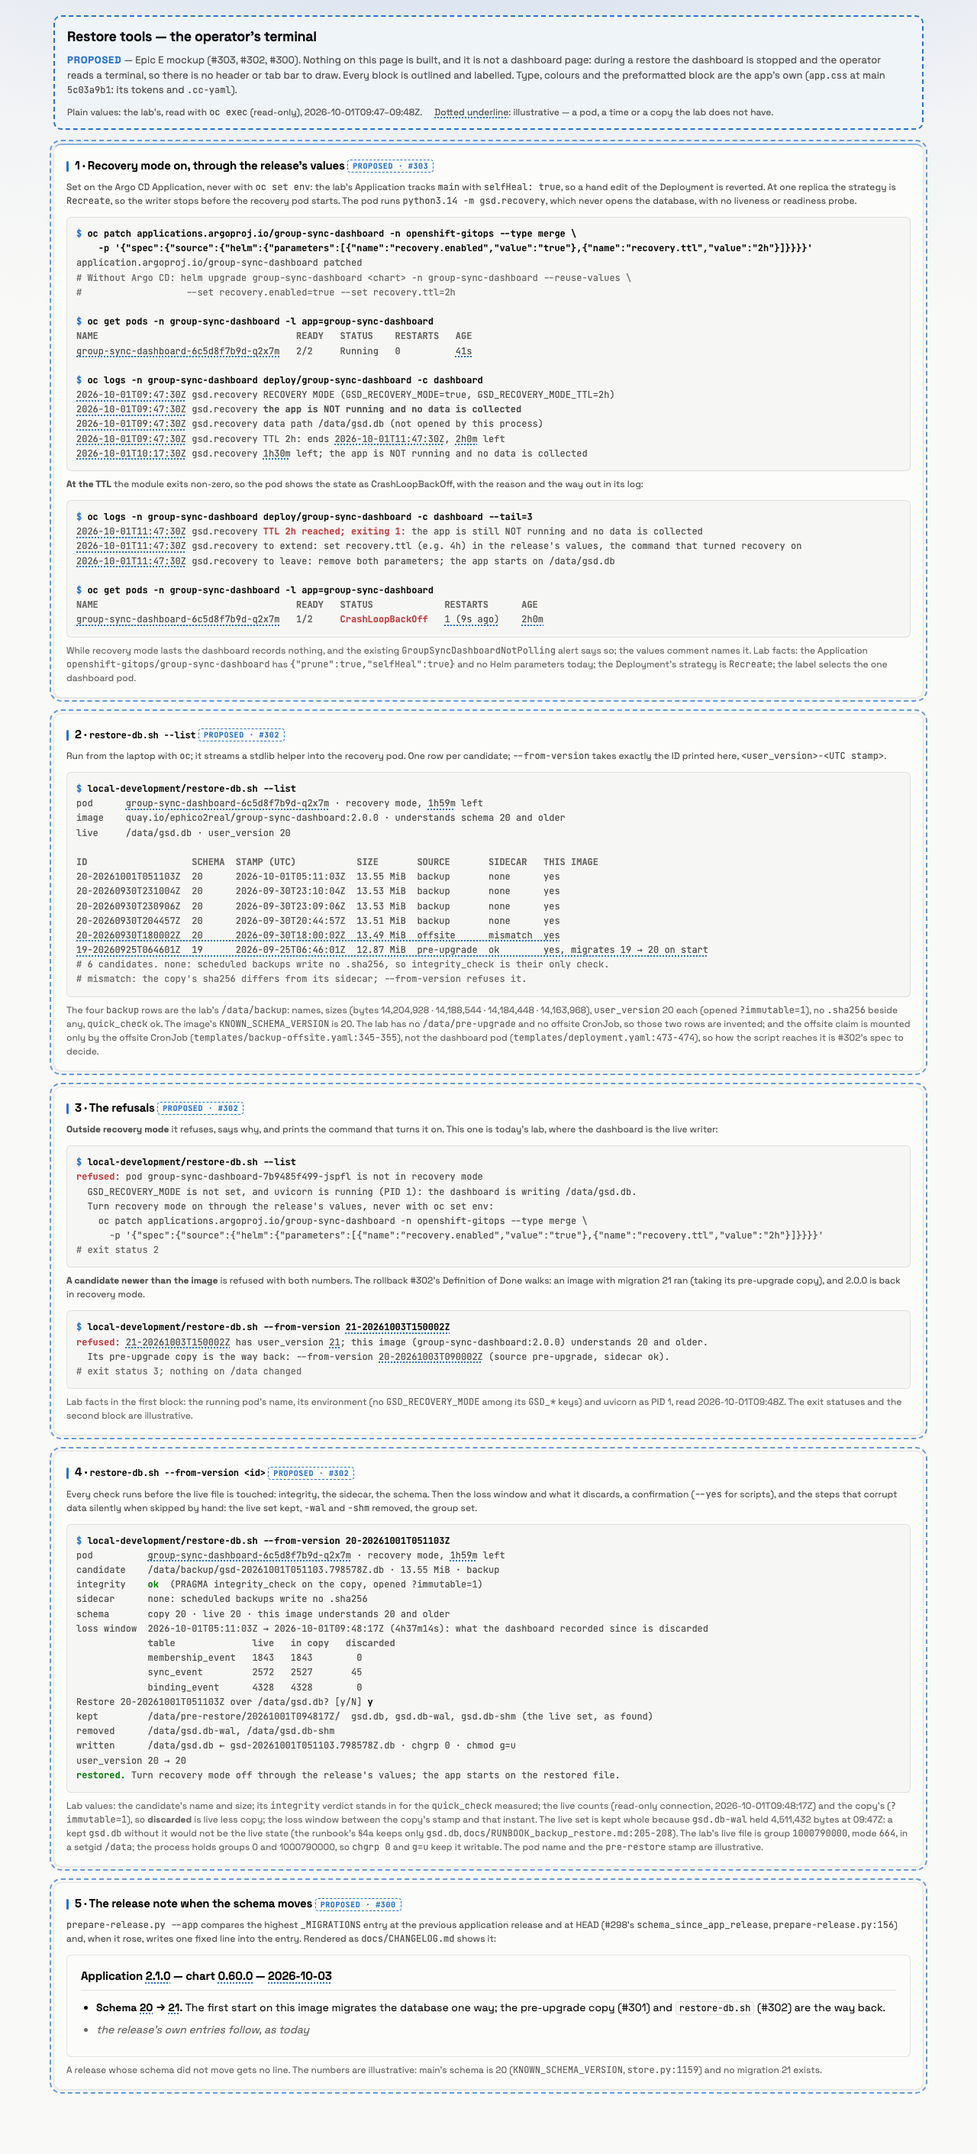
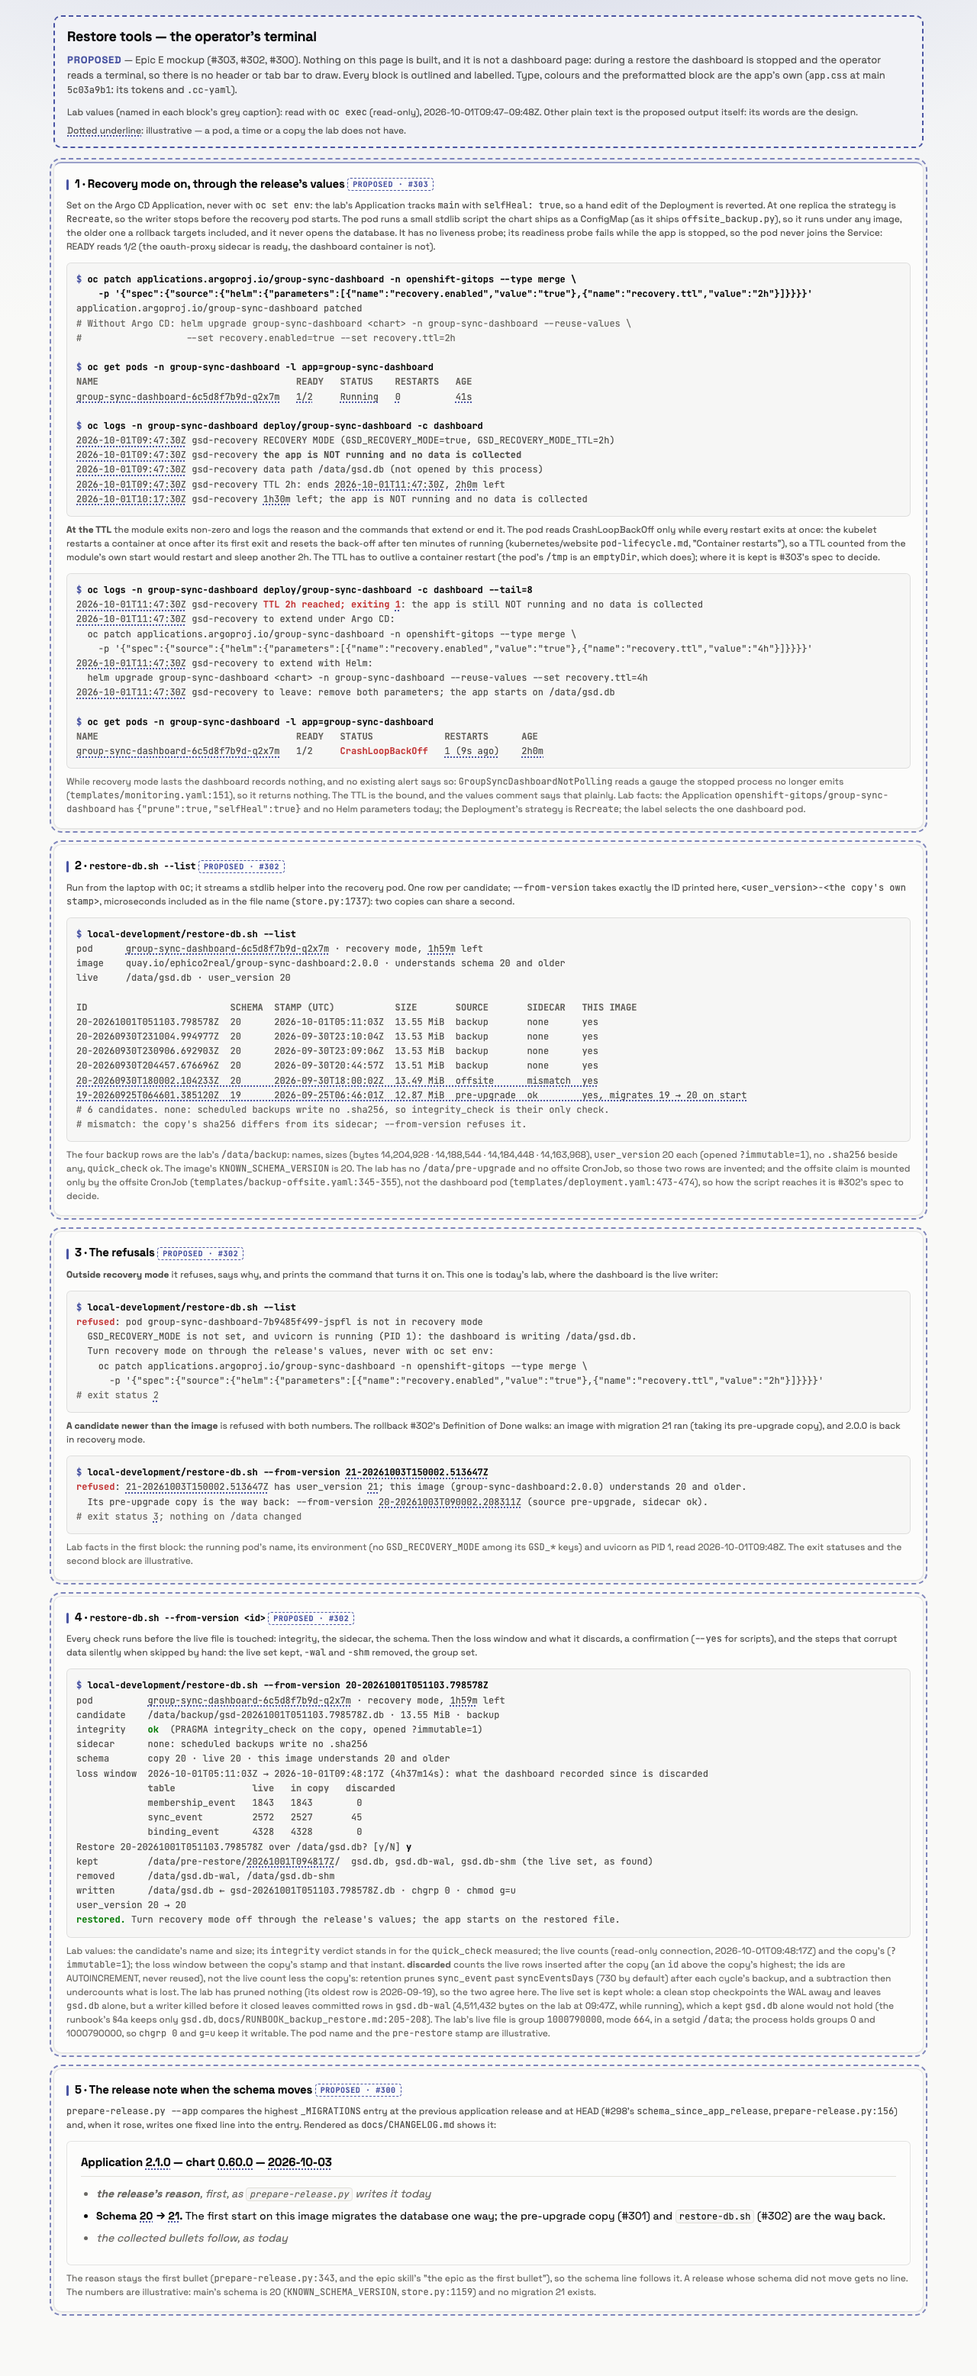
docs(design): the reviews of the Epic G and Epic E mockups — OB3's seven fixes, Codex's two, and #303's corrected recovery pod
- OB3 (in Grok's seat): the Namespaces card is h2 and its counts are drawn as #503 decides; `discarded` counts rows
  inserted after the copy; the TTL log prints the commands that extend it, and the caption says the TTL must survive a
  container restart; the release's reason stays the first bullet; illustrative values dotted; KPI accent for contrast.
- Codex: the legend no longer calls every plain value a lab reading; restore IDs keep the copy's microseconds, as the
  file names do (two copies can share a second).
- #303 as corrected: a chart-shipped script rather than an app module, no liveness probe, a failing readiness probe
  (READY 1/2, never in the Service), and no claim that the NotPolling alert fires.

diff --git a/docs/design/restore-cli-mock.html b/docs/design/restore-cli-mock.html
@@ -1751,7 +1751,7 @@ pre.cc-yaml.term { white-space: pre; overflow-wrap: normal; word-break: normal; 
 }
 </style>
 </head>
-<body>
+<body data-page="kpi">
 <div class="wrap" id="wrap">
   <div class="proposed-banner" role="note">
     <h1>Restore tools — the operator's terminal</h1>
@@ -1760,7 +1760,7 @@ pre.cc-yaml.term { white-space: pre; overflow-wrap: normal; word-break: normal; 
     draw. Every block is outlined and labelled. Type, colours and the preformatted block are the app's own
     (<code>app.css</code> at main <code>5c03a9b1</code>: its tokens and <code>.cc-yaml</code>).
     <div class="legend">
-      <span>Plain values: the lab's, read with <code>oc exec</code> (read-only), 2026-10-01T09:47–09:48Z.</span>
+      <span>Lab values (named in each block's grey caption): read with <code>oc exec</code> (read-only), 2026-10-01T09:47–09:48Z. Other plain text is the proposed output itself: its words are the design.</span>
       <span><span class="il">Dotted underline</span>: illustrative — a pod, a time or a copy the lab does not have.</span>
     </div>
   </div>
@@ -1771,7 +1771,10 @@ pre.cc-yaml.term { white-space: pre; overflow-wrap: normal; word-break: normal; 
     <p class="cap">Set on the Argo CD Application, never with <code>oc set env</code>: the lab's Application tracks
       <code>main</code> with <code>selfHeal: true</code>, so a hand edit of the Deployment is reverted. At one replica the
       strategy is <code>Recreate</code>, so the writer stops before the recovery pod starts. The pod runs
-      <code>python3.14 -m gsd.recovery</code>, which never opens the database, with no liveness or readiness probe.</p>
+      a small stdlib script the chart ships as a ConfigMap (as it ships <code>offsite_backup.py</code>), so it runs under any
+      image, the older one a rollback targets included, and it never opens the database. It has no liveness probe; its
+      readiness probe fails while the app is stopped, so the pod never joins the Service: READY reads 1/2 (the
+      oauth-proxy sidecar is ready, the dashboard container is not).</p>
 <pre class="cc-yaml term"><span class="p">$ </span><span class="cmd">oc patch applications.argoproj.io/group-sync-dashboard -n openshift-gitops --type merge \
     -p '{"spec":{"source":{"helm":{"parameters":[{"name":"recovery.enabled","value":"true"},{"name":"recovery.ttl","value":"2h"}]}}}}'</span>
 application.argoproj.io/group-sync-dashboard patched
@@ -1780,26 +1783,36 @@ application.argoproj.io/group-sync-dashboard patched
 
 <span class="p">$ </span><span class="cmd">oc get pods -n group-sync-dashboard -l app=group-sync-dashboard</span>
 <span class="hd">NAME                                    READY   STATUS    RESTARTS   AGE</span>
-<span class="il">group-sync-dashboard-6c5d8f7b9d-q2x7m</span>   2/2     Running   0          <span class="il">41s</span>
+<span class="il">group-sync-dashboard-6c5d8f7b9d-q2x7m</span>   <span class="il">1/2</span>     <span class="il">Running</span>   <span class="il">0</span>          <span class="il">41s</span>
 
 <span class="p">$ </span><span class="cmd">oc logs -n group-sync-dashboard deploy/group-sync-dashboard -c dashboard</span>
-<span class="il">2026-10-01T09:47:30Z</span> gsd.recovery RECOVERY MODE (GSD_RECOVERY_MODE=true, GSD_RECOVERY_MODE_TTL=2h)
-<span class="il">2026-10-01T09:47:30Z</span> gsd.recovery <b>the app is NOT running and no data is collected</b>
-<span class="il">2026-10-01T09:47:30Z</span> gsd.recovery data path /data/gsd.db (not opened by this process)
-<span class="il">2026-10-01T09:47:30Z</span> gsd.recovery TTL 2h: ends <span class="il">2026-10-01T11:47:30Z</span>, <span class="il">2h0m</span> left
-<span class="il">2026-10-01T10:17:30Z</span> gsd.recovery <span class="il">1h30m</span> left; the app is NOT running and no data is collected</pre>
-    <p class="cap"><b>At the TTL</b> the module exits non-zero, so the pod shows the state as CrashLoopBackOff, with the reason
-      and the way out in its log:</p>
-<pre class="cc-yaml term"><span class="p">$ </span><span class="cmd">oc logs -n group-sync-dashboard deploy/group-sync-dashboard -c dashboard --tail=3</span>
-<span class="il">2026-10-01T11:47:30Z</span> gsd.recovery <span class="bad">TTL 2h reached; exiting 1</span>: the app is still NOT running and no data is collected
-<span class="il">2026-10-01T11:47:30Z</span> gsd.recovery to extend: set recovery.ttl (e.g. 4h) in the release's values, the command that turned recovery on
-<span class="il">2026-10-01T11:47:30Z</span> gsd.recovery to leave: remove both parameters; the app starts on /data/gsd.db
+<span class="il">2026-10-01T09:47:30Z</span> gsd-recovery RECOVERY MODE (GSD_RECOVERY_MODE=true, GSD_RECOVERY_MODE_TTL=2h)
+<span class="il">2026-10-01T09:47:30Z</span> gsd-recovery <b>the app is NOT running and no data is collected</b>
+<span class="il">2026-10-01T09:47:30Z</span> gsd-recovery data path /data/gsd.db (not opened by this process)
+<span class="il">2026-10-01T09:47:30Z</span> gsd-recovery TTL 2h: ends <span class="il">2026-10-01T11:47:30Z</span>, <span class="il">2h0m</span> left
+<span class="il">2026-10-01T10:17:30Z</span> gsd-recovery <span class="il">1h30m</span> left; the app is NOT running and no data is collected</pre>
+    <p class="cap"><b>At the TTL</b> the module exits non-zero and logs the reason and the commands that extend or end it.
+      The pod reads CrashLoopBackOff only while every restart exits at once: the kubelet restarts a container at once
+      after its first exit and resets the back-off after ten minutes of running (kubernetes/website
+      <code>pod-lifecycle.md</code>, "Container restarts"), so a TTL counted from the module's own start would
+      restart and sleep another 2h. The TTL has to outlive a container restart (the pod's <code>/tmp</code> is an
+      <code>emptyDir</code>, which does); where it is kept is #303's spec to decide.</p>
+<pre class="cc-yaml term"><span class="p">$ </span><span class="cmd">oc logs -n group-sync-dashboard deploy/group-sync-dashboard -c dashboard --tail=8</span>
+<span class="il">2026-10-01T11:47:30Z</span> gsd-recovery <span class="bad">TTL 2h reached; exiting <span class="il">1</span></span>: the app is still NOT running and no data is collected
+<span class="il">2026-10-01T11:47:30Z</span> gsd-recovery to extend under Argo CD:
+  oc patch applications.argoproj.io/group-sync-dashboard -n openshift-gitops --type merge \
+    -p '{"spec":{"source":{"helm":{"parameters":[{"name":"recovery.enabled","value":"true"},{"name":"recovery.ttl","value":"4h"}]}}}}'
+<span class="il">2026-10-01T11:47:30Z</span> gsd-recovery to extend with Helm:
+  helm upgrade group-sync-dashboard &lt;chart&gt; -n group-sync-dashboard --reuse-values --set recovery.ttl=4h
+<span class="il">2026-10-01T11:47:30Z</span> gsd-recovery to leave: remove both parameters; the app starts on /data/gsd.db
 
 <span class="p">$ </span><span class="cmd">oc get pods -n group-sync-dashboard -l app=group-sync-dashboard</span>
 <span class="hd">NAME                                    READY   STATUS             RESTARTS      AGE</span>
 <span class="il">group-sync-dashboard-6c5d8f7b9d-q2x7m</span>   1/2     <span class="bad">CrashLoopBackOff</span>   <span class="il">1 (9s ago)</span>    <span class="il">2h0m</span></pre>
-    <p class="cap src">While recovery mode lasts the dashboard records nothing, and the existing
-      <code>GroupSyncDashboardNotPolling</code> alert says so; the values comment names it. Lab facts: the Application
+    <p class="cap src">While recovery mode lasts the dashboard records nothing, and no existing alert says so:
+      <code>GroupSyncDashboardNotPolling</code> reads a gauge the stopped process no longer emits
+      (<code>templates/monitoring.yaml:151</code>), so it returns nothing. The TTL is the bound, and the values comment
+      says that plainly. Lab facts: the Application
       <code>openshift-gitops/group-sync-dashboard</code> has <code>{"prune":true,"selfHeal":true}</code> and no Helm
       parameters today; the Deployment's strategy is <code>Recreate</code>; the label selects the one dashboard pod.</p>
   </section>
@@ -1807,19 +1820,20 @@ application.argoproj.io/group-sync-dashboard patched
   <section class="card is-proposed" id="list">
     <h2>2 · <code>restore-db.sh --list</code> <span class="tag-proposed">proposed · #302</span></h2>
     <p class="cap">Run from the laptop with <code>oc</code>; it streams a stdlib helper into the recovery pod. One row per
-      candidate; <code>--from-version</code> takes exactly the ID printed here, <code>&lt;user_version&gt;-&lt;UTC stamp&gt;</code>.</p>
+      candidate; <code>--from-version</code> takes exactly the ID printed here, <code>&lt;user_version&gt;-&lt;the copy's own stamp&gt;</code>,
+      microseconds included as in the file name (<code>store.py:1737</code>): two copies can share a second.</p>
 <pre class="cc-yaml term"><span class="p">$ </span><span class="cmd">local-development/restore-db.sh --list</span>
 pod      <span class="il">group-sync-dashboard-6c5d8f7b9d-q2x7m</span> · recovery mode, <span class="il">1h59m</span> left
 image    quay.io/ephico2real/group-sync-dashboard:2.0.0 · understands schema 20 and older
 live     /data/gsd.db · user_version 20
 
-<span class="hd">ID                   SCHEMA  STAMP (UTC)           SIZE       SOURCE       SIDECAR   THIS IMAGE</span>
-20-20261001T051103Z  20      2026-10-01T05:11:03Z  13.55 MiB  backup       none      yes
-20-20260930T231004Z  20      2026-09-30T23:10:04Z  13.53 MiB  backup       none      yes
-20-20260930T230906Z  20      2026-09-30T23:09:06Z  13.53 MiB  backup       none      yes
-20-20260930T204457Z  20      2026-09-30T20:44:57Z  13.51 MiB  backup       none      yes
-<span class="il">20-20260930T180002Z  20      2026-09-30T18:00:02Z  13.49 MiB  offsite      mismatch  yes</span>
-<span class="il">19-20260925T064601Z  19      2026-09-25T06:46:01Z  12.87 MiB  pre-upgrade  ok        yes, migrates 19 → 20 on start</span>
+<span class="hd">ID                          SCHEMA  STAMP (UTC)           SIZE       SOURCE       SIDECAR   THIS IMAGE</span>
+20-20261001T051103.798578Z  20      2026-10-01T05:11:03Z  13.55 MiB  backup       none      yes
+20-20260930T231004.994977Z  20      2026-09-30T23:10:04Z  13.53 MiB  backup       none      yes
+20-20260930T230906.692903Z  20      2026-09-30T23:09:06Z  13.53 MiB  backup       none      yes
+20-20260930T204457.676696Z  20      2026-09-30T20:44:57Z  13.51 MiB  backup       none      yes
+<span class="il">20-20260930T180002.104233Z  20      2026-09-30T18:00:02Z  13.49 MiB  offsite      mismatch  yes</span>
+<span class="il">19-20260925T064601.385120Z  19      2026-09-25T06:46:01Z  12.87 MiB  pre-upgrade  ok        yes, migrates 19 → 20 on start</span>
 <span class="c"># 6 candidates. none: scheduled backups write no .sha256, so integrity_check is their only check.
 # mismatch: the copy's sha256 differs from its sidecar; --from-version refuses it.</span></pre>
     <p class="cap src">The four <code>backup</code> rows are the lab's <code>/data/backup</code>: names, sizes (bytes
@@ -1841,13 +1855,13 @@ live     /data/gsd.db · user_version 20
   Turn recovery mode on through the release's values, never with oc set env:
     oc patch applications.argoproj.io/group-sync-dashboard -n openshift-gitops --type merge \
       -p '{"spec":{"source":{"helm":{"parameters":[{"name":"recovery.enabled","value":"true"},{"name":"recovery.ttl","value":"2h"}]}}}}'
-<span class="c"># exit status 2</span></pre>
+<span class="c"># exit status <span class="il">2</span></span></pre>
     <p class="cap"><b>A candidate newer than the image</b> is refused with both numbers. The rollback #302's Definition of
       Done walks: an image with migration 21 ran (taking its pre-upgrade copy), and 2.0.0 is back in recovery mode.</p>
-<pre class="cc-yaml term"><span class="p">$ </span><span class="cmd">local-development/restore-db.sh --from-version <span class="il">21-20261003T150002Z</span></span>
-<span class="bad">refused</span>: <span class="il">21-20261003T150002Z</span> has user_version <span class="il">21</span>; this image (group-sync-dashboard:2.0.0) understands 20 and older.
-  Its pre-upgrade copy is the way back: --from-version <span class="il">20-20261003T090002Z</span> (source pre-upgrade, sidecar ok).
-<span class="c"># exit status 3; nothing on /data changed</span></pre>
+<pre class="cc-yaml term"><span class="p">$ </span><span class="cmd">local-development/restore-db.sh --from-version <span class="il">21-20261003T150002.513647Z</span></span>
+<span class="bad">refused</span>: <span class="il">21-20261003T150002.513647Z</span> has user_version <span class="il">21</span>; this image (group-sync-dashboard:2.0.0) understands 20 and older.
+  Its pre-upgrade copy is the way back: --from-version <span class="il">20-20261003T090002.208311Z</span> (source pre-upgrade, sidecar ok).
+<span class="c"># exit status <span class="il">3</span>; nothing on /data changed</span></pre>
     <p class="cap src">Lab facts in the first block: the running pod's name, its environment (no
       <code>GSD_RECOVERY_MODE</code> among its <code>GSD_*</code> keys) and uvicorn as PID 1, read 2026-10-01T09:48Z. The
       exit statuses and the second block are illustrative.</p>
@@ -1858,7 +1872,7 @@ live     /data/gsd.db · user_version 20
     <p class="cap">Every check runs before the live file is touched: integrity, the sidecar, the schema. Then the loss window
       and what it discards, a confirmation (<code>--yes</code> for scripts), and the steps that corrupt data silently when
       skipped by hand: the live set kept, <code>-wal</code> and <code>-shm</code> removed, the group set.</p>
-<pre class="cc-yaml term"><span class="p">$ </span><span class="cmd">local-development/restore-db.sh --from-version 20-20261001T051103Z</span>
+<pre class="cc-yaml term"><span class="p">$ </span><span class="cmd">local-development/restore-db.sh --from-version 20-20261001T051103.798578Z</span>
 pod          <span class="il">group-sync-dashboard-6c5d8f7b9d-q2x7m</span> · recovery mode, <span class="il">1h59m</span> left
 candidate    /data/backup/gsd-20261001T051103.798578Z.db · 13.55 MiB · backup
 integrity    <span class="ok">ok</span>  (PRAGMA integrity_check on the copy, opened ?immutable=1)
@@ -1869,17 +1883,22 @@ loss window  2026-10-01T05:11:03Z → 2026-10-01T09:48:17Z (4h37m14s): what the 
              membership_event   1843   1843        0
              sync_event         2572   2527       45
              binding_event      4328   4328        0
-Restore 20-20261001T051103Z over /data/gsd.db? [y/N] <span class="cmd">y</span>
-kept         /data/pre-restore/20261001T094817Z/  gsd.db, gsd.db-wal, gsd.db-shm (the live set, as found)
+Restore 20-20261001T051103.798578Z over /data/gsd.db? [y/N] <span class="cmd">y</span>
+kept         /data/pre-restore/<span class="il">20261001T094817Z</span>/  gsd.db, gsd.db-wal, gsd.db-shm (the live set, as found)
 removed      /data/gsd.db-wal, /data/gsd.db-shm
 written      /data/gsd.db ← gsd-20261001T051103.798578Z.db · chgrp 0 · chmod g=u
 user_version 20 → 20
 <span class="ok">restored.</span> Turn recovery mode off through the release's values; the app starts on the restored file.</pre>
     <p class="cap src">Lab values: the candidate's name and size; its <code>integrity</code> verdict stands in for the
       <code>quick_check</code> measured; the live counts (read-only connection, 2026-10-01T09:48:17Z) and the copy's
-      (<code>?immutable=1</code>), so <b>discarded</b> is live less copy; the loss window between the copy's stamp and that
-      instant. The live set is kept whole because <code>gsd.db-wal</code> held 4,511,432 bytes at 09:47Z: a kept
-      <code>gsd.db</code> without it would not be the live state (the runbook's §4a keeps only <code>gsd.db</code>,
+      (<code>?immutable=1</code>); the loss window between the copy's stamp and that instant. <b>discarded</b> counts the
+      live rows inserted after the copy (an <code>id</code> above the copy's highest; the ids are AUTOINCREMENT, never
+      reused), not the live count less the copy's: retention prunes <code>sync_event</code> past
+      <code>syncEventsDays</code> (730 by default) after each cycle's backup, and a subtraction then undercounts what is
+      lost. The lab has pruned nothing (its oldest row is 2026-09-19), so the two agree here. The live set is kept whole:
+      a clean stop checkpoints the WAL away and leaves <code>gsd.db</code> alone, but a writer killed before it closed
+      leaves committed rows in <code>gsd.db-wal</code> (4,511,432 bytes on the lab at 09:47Z, while running), which a kept
+      <code>gsd.db</code> alone would not hold (the runbook's §4a keeps only <code>gsd.db</code>,
       <code>docs/RUNBOOK_backup_restore.md:205-208</code>). The lab's live file is group <code>1000790000</code>, mode
       <code>664</code>, in a setgid <code>/data</code>; the process holds groups 0 and 1000790000, so <code>chgrp 0</code> and
       <code>g=u</code> keep it writable. The pod name and the <code>pre-restore</code> stamp are illustrative.</p>
@@ -1893,13 +1912,16 @@ user_version 20 → 20
     <div class="md">
       <h3>Application <span class="il">2.1.0</span> — chart <span class="il">0.60.0</span> — <span class="il">2026-10-03</span></h3>
       <ul>
+        <li class="elided"><strong>the release's reason</strong>, first, as <code>prepare-release.py</code> writes it today</li>
         <li><strong>Schema <span class="il">20</span> → <span class="il">21</span>.</strong> The first start on this image migrates
           the database one way; the pre-upgrade copy (#301) and <code>restore-db.sh</code> (#302) are the way back.</li>
-        <li class="elided">the release's own entries follow, as today</li>
+        <li class="elided">the collected bullets follow, as today</li>
       </ul>
     </div>
-    <p class="cap src">A release whose schema did not move gets no line. The numbers are illustrative: main's schema is 20
-      (<code>KNOWN_SCHEMA_VERSION</code>, <code>store.py:1159</code>) and no migration 21 exists.</p>
+    <p class="cap src">The reason stays the first bullet (<code>prepare-release.py:343</code>, and the epic skill's "the epic
+      as the first bullet"), so the schema line follows it. A release whose schema did not move gets no line. The numbers
+      are illustrative: main's schema is 20 (<code>KNOWN_SCHEMA_VERSION</code>, <code>store.py:1159</code>) and no
+      migration 21 exists.</p>
   </section>
   </main>
 </div>

diff --git a/docs/design/direct-user-grants-mock.html b/docs/design/direct-user-grants-mock.html
@@ -2011,7 +2011,15 @@ h2 .cc-chips { display: inline-flex; vertical-align: middle; }
   </section>
 
   <section class="card abridged-card">
-    <h3>Namespaces <span class="muted fw-normal">· 42</span> <span class="abridged">abridged — today's namespace index, unchanged by this mock</span></h3>
+    <h2>Namespaces <span class="muted fw-normal">· 42</span> <span class="abridged">abridged — today's namespace index, not redrawn here</span></h2>
+    <div class="prop-note is-proposed" id="prop-index"><span class="tag-proposed">proposed · #503</span>
+      This card counts the same rows three times today: “<b>3 cluster-wide direct grants</b> reach every namespace
+      below”, “76 platform namespaces hidden — <b>2 of them have a direct grant</b>”, naming
+      <code>group-sync-operator</code> as still ranked in Exposure by namespace, and that namespace's
+      <b>Direct grants 1</b> (<code>store.py:1837-1843</code>, <code>api.py:2281</code>, <code>api.py:2318</code>). Left as
+      they are, they contradict the cards above (· 2, and <code>group-sync-operator</code> leaves); with the label honoured
+      here too they read 2, 1 and 0. #503 applies its one review rule (not platform and not acknowledged) here too, so
+      this card agrees with the cards above.</div>
   </section>
   </main>
 
